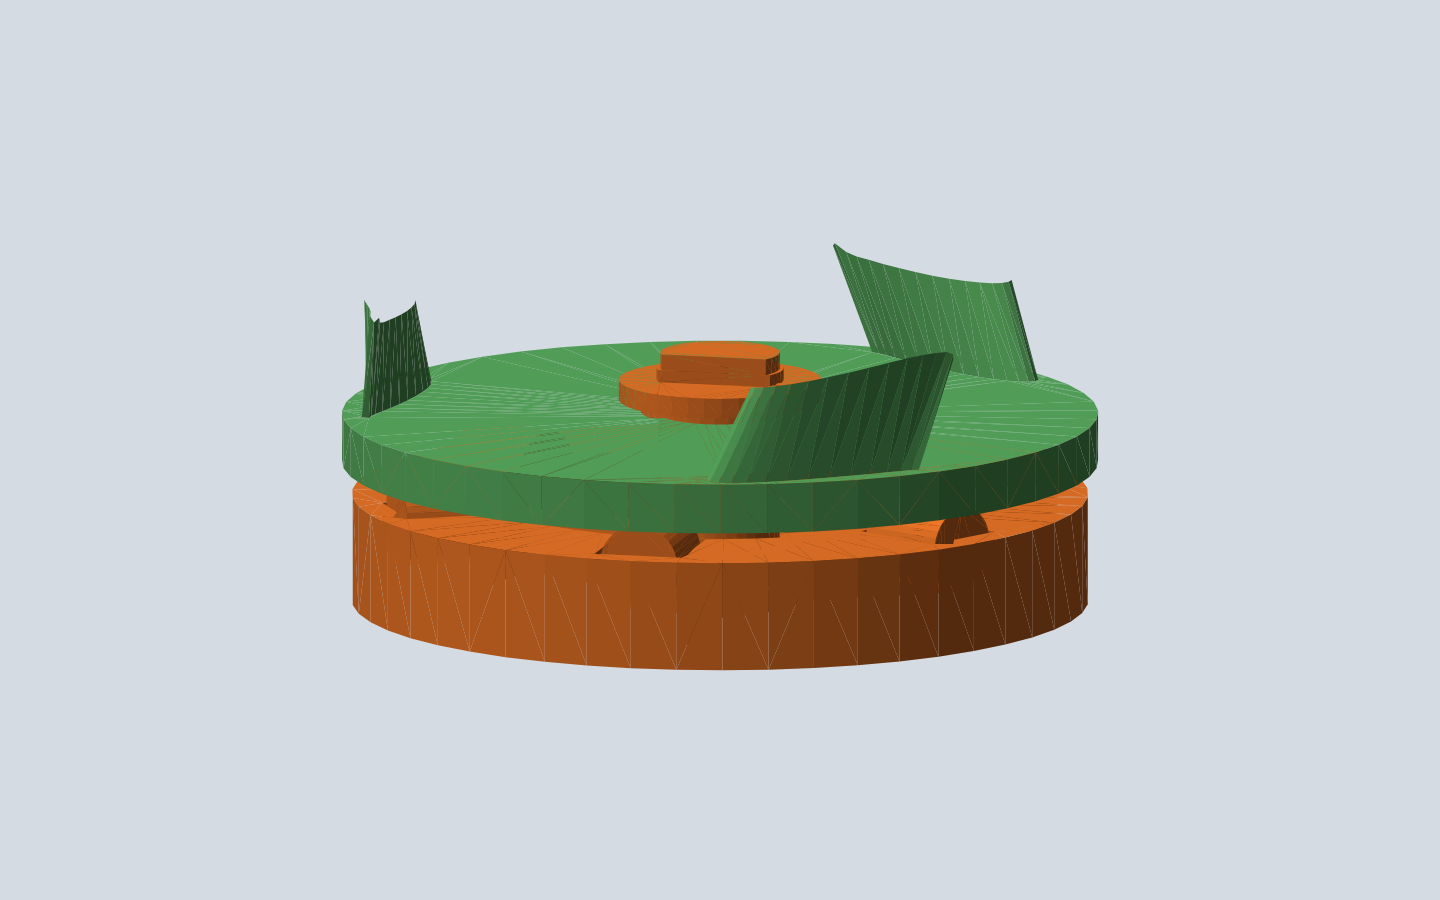
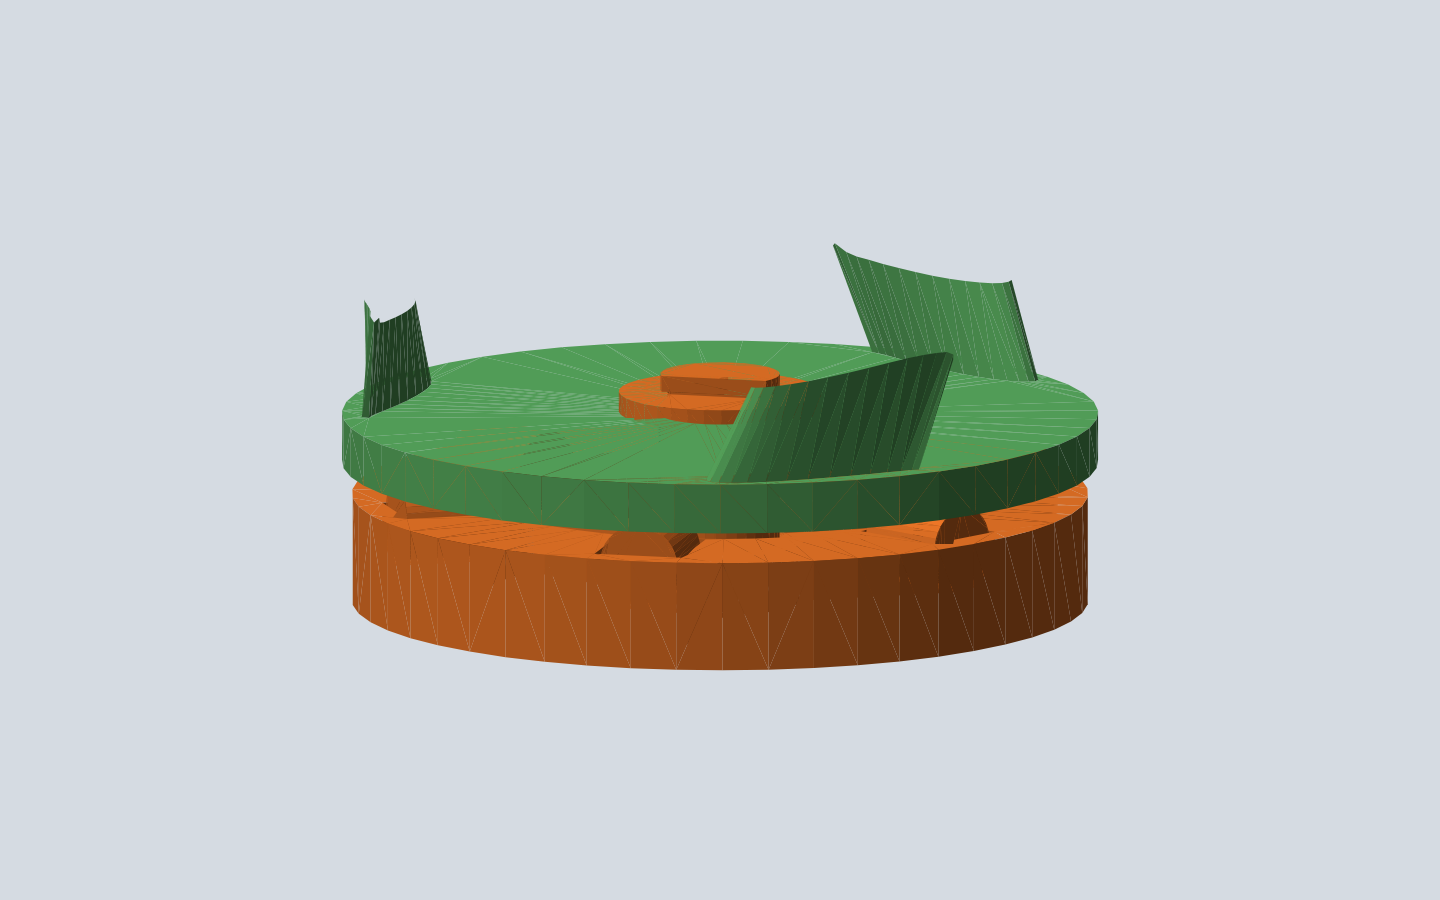
docs(print-kit): clip-assembly review shots and live cost
Exam-scale kit is 73.4 cm3 / 38.2 g / .76 PLA. Journal is a constant pass diameter; the C-clip seats in the groove after the rotor drops on. Filament names are PLA Basic Orange and PLA Glow Green only.

Changed region(s): [[0.4062, 0.3733, 0.5625, 0.4667]]

diff --git a/docs/agentic/PRINT_KIT_REPORT.md b/docs/agentic/PRINT_KIT_REPORT.md
@@ -56,7 +56,8 @@ shaft/hub/wings/plate/bushing/cap names):
 
 Assumptions: Bambu PLA Basic Orange + Bambu PLA Glow, 1.24 g/cm³, $20/kg, print-volume factor 0.42.
 
-At exam scale 0.4 the last green run was ~73.6 cm³ CAD solid, **38.3 g**,
-**$0.77** PLA (race ring, not a cookie disk). The exam writes the live
-figures next to the project.
+At exam scale 0.4 the last green run was ~73.4 cm³ CAD solid, **38.2 g**,
+**$0.76** PLA (constant journal + groove clip). The exam writes the live
+figures next to the project. Two filaments only: PLA Basic Orange and
+PLA Glow Green.
 Electricity and machine time are not priced. No additional hardware.

diff --git a/docs/agentic/print-kit-review/README.md b/docs/agentic/print-kit-review/README.md
@@ -4,7 +4,8 @@ Merged stator: Y-frame + race ring + open top-load fence + short
 D-journal. Radial-axis thin thrust **under the blade roots**. Rollers
 print standing and drop in from above (not PIP). Clocked C-clip snaps
 into a journal groove and does not rub the rotor. The plate drops over
-a constant journal. `pack` hides
+a constant journal; the clip goes on last (`pack` still shows it seated).
+`pack` hides
 the rotor so the lying rollers / top-load windows are visible. `races`
 looks up from under the plate. `hub` is a close stack. `side` shows the
 short pack — not a drum, not two flats.
